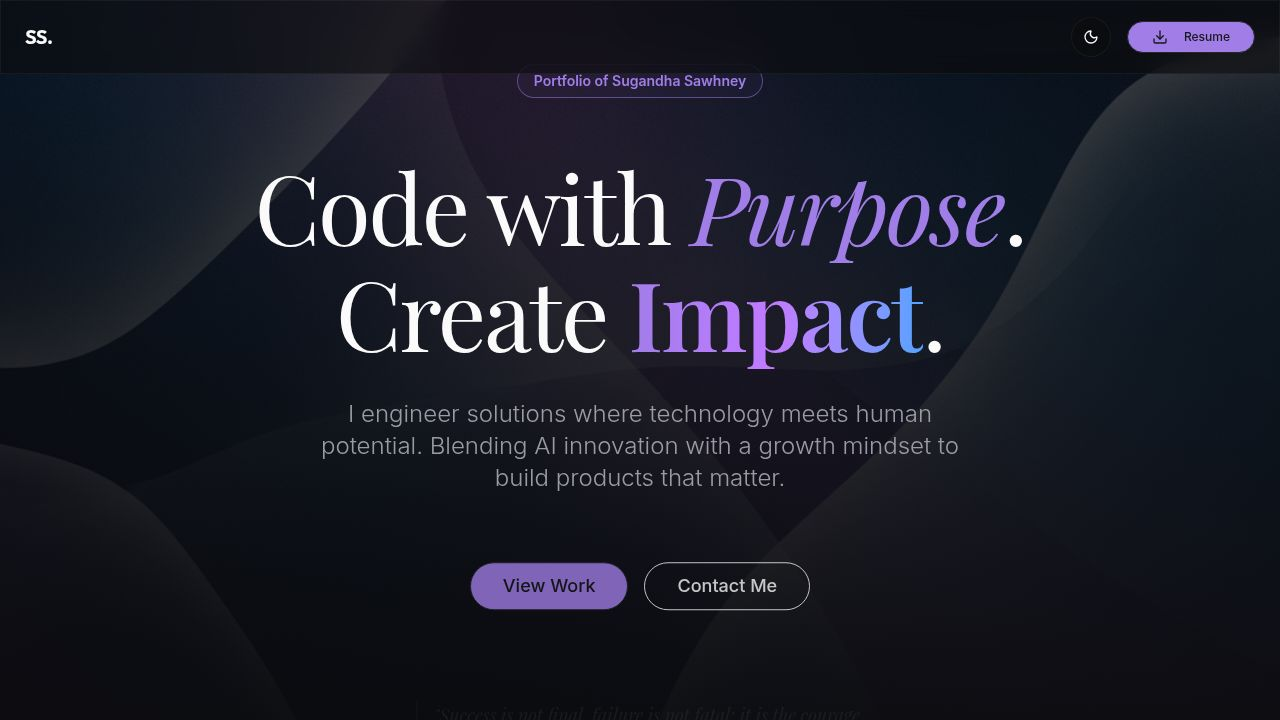
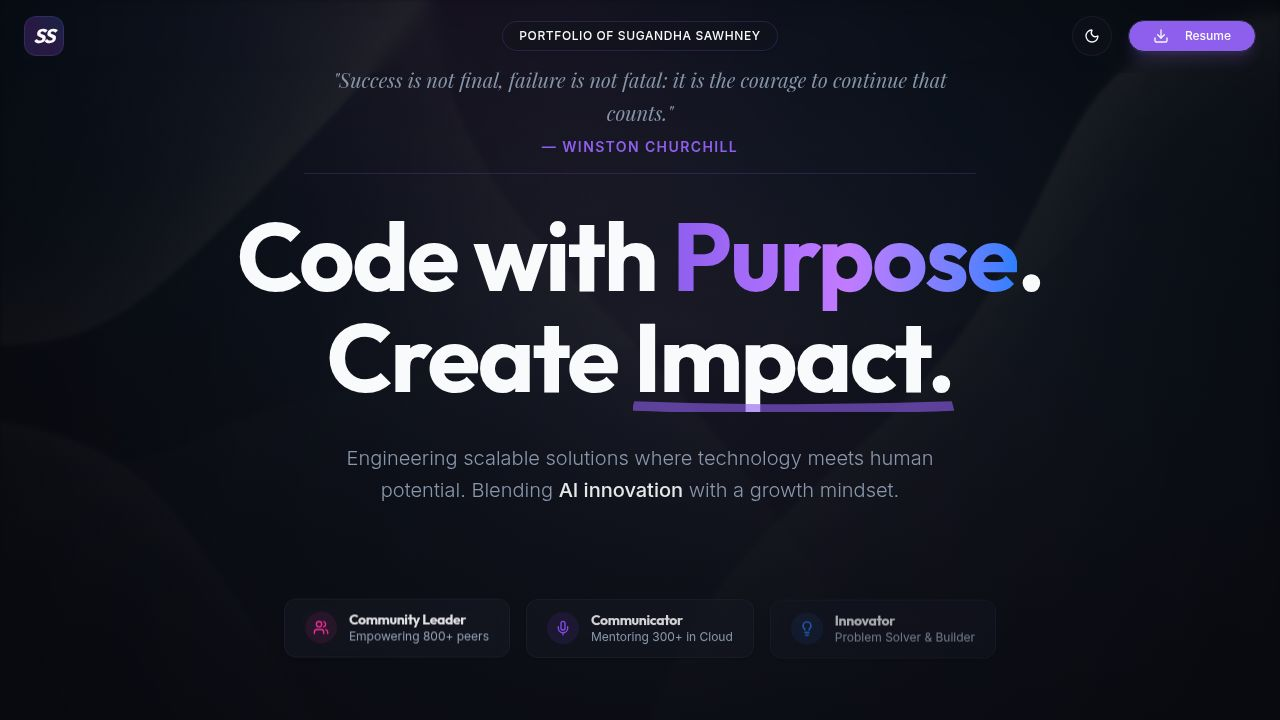
Adjust website layout and content to match user's design requests
Restructure the navigation bar, prominently display a quote, and update the about section content with new metrics and university name.

Replit-Commit-Author: Agent
Replit-Commit-Session-Id: dddb8f0b-c208-4d79-9274-7375ebd0d79f
Replit-Commit-Checkpoint-Type: full_checkpoint
Replit-Commit-Event-Id: a0bf2b86-d5ed-4762-a42b-8d053cfc7b7c
Replit-Commit-Screenshot-Url: https://storage.googleapis.com/screenshot-production-us-central1/0880cebe-419a-4569-83b4-175e6c397eff/dddb8f0b-c208-4d79-9274-7375ebd0d79f/JSiuIjx
Replit-Helium-Checkpoint-Created: true

diff --git a/client/src/pages/home.tsx b/client/src/pages/home.tsx
@@ -60,8 +60,17 @@ export default function Home() {
     <div className="min-h-screen bg-background text-foreground overflow-x-hidden selection:bg-primary/30 selection:text-primary-foreground">
       {/* Navigation */}
       <nav className={`fixed top-0 left-0 right-0 z-50 flex items-center justify-between px-6 py-4 transition-all duration-300 ${isScrolled ? "glass scrolled" : "glass"}`}>
-        <Logo />
-        <div className="flex items-center gap-4">
+        <div className="flex-1 flex justify-start">
+           <Logo />
+        </div>
+        
+        <div className="flex-1 flex justify-center">
+          <Badge variant="outline" className="hidden md:flex px-4 py-1.5 rounded-full text-xs font-medium uppercase tracking-wider border-primary/20 bg-background/50 backdrop-blur-md shadow-sm whitespace-nowrap">
+             Portfolio of Sugandha Sawhney
+          </Badge>
+        </div>
+
+        <div className="flex-1 flex items-center justify-end gap-4">
           <ThemeToggle />
           <Button 
             variant="default" 
@@ -93,10 +102,10 @@ export default function Home() {
             animate={{ opacity: 1, y: 0 }}
             transition={{ duration: 0.6, ease: "easeOut" }}
           >
-            <Badge variant="secondary" className="px-6 py-2 rounded-full text-xs font-medium uppercase tracking-wider border border-primary/20 bg-background/50 backdrop-blur-md shadow-sm">
-              <Sparkles className="w-3 h-3 mr-2 text-primary animate-pulse" />
-              Portfolio of Sugandha Sawhney
-            </Badge>
+             <blockquote className="font-serif italic text-lg md:text-xl text-muted-foreground/90 max-w-2xl mx-auto leading-relaxed border-b border-primary/20 pb-4">
+                "Success is not final, failure is not fatal: it is the courage to continue that counts."
+                <footer className="text-sm font-sans not-italic text-primary mt-2 uppercase tracking-widest font-bold">— Winston Churchill</footer>
+              </blockquote>
           </motion.div>
 
           <motion.h1 
@@ -157,10 +166,6 @@ export default function Home() {
       <Section id="about" className="relative py-24">
         <div className="grid md:grid-cols-12 gap-12 lg:gap-20 items-start">
           <div className="md:col-span-5 lg:col-span-5 space-y-8 sticky top-32">
-            <div className="inline-block p-3 rounded-2xl bg-primary/10 mb-2">
-              <Logo />
-            </div>
-            
             <h2 className="text-3xl md:text-5xl font-heading font-bold leading-tight">
               The Mindset <br />
               <span className="text-transparent bg-clip-text bg-gradient-to-r from-primary to-purple-400">Behind The Code</span>
@@ -168,19 +173,42 @@ export default function Home() {
             
             <div className="space-y-6 text-base md:text-lg text-muted-foreground leading-relaxed">
               <p>
-                I am a 2nd-year B.Tech Information Technology student at <span className="text-foreground font-semibold border-b border-primary/30 hover:border-primary transition-colors cursor-default">IGDTUW</span>.
+                I am a 2nd-year B.Tech Information Technology student at <span className="text-foreground font-semibold border-b border-primary/30 hover:border-primary transition-colors cursor-default">Indira Gandhi Delhi Technical University for Women</span>.
               </p>
               
-              <blockquote className="border-l-4 border-primary pl-6 py-4 my-6 italic text-foreground text-lg font-serif bg-card/30 rounded-r-2xl pr-6 shadow-sm">
-                "Success is not final, failure is not fatal: it is the courage to continue that counts."
-              </blockquote>
+              <p>
+                For me, technology is a tool for empowerment. My journey is driven by a simple belief: <span className="text-foreground font-medium italic">"Growth happens outside the comfort zone."</span> Whether I'm fine-tuning LLMs or leading a community of hundreds, I approach every challenge with curiosity and resilience.
+              </p>
 
               <p>
-                My journey is driven by a simple belief: <span className="text-foreground font-medium">"Growth happens outside the comfort zone."</span> Whether I'm fine-tuning LLMs or leading a community of hundreds, I approach every challenge with curiosity.
+                I don't just build apps; I build solutions that impact lives—like Nutrilia, where I'm combining AI with holistic health to solve real-world problems.
               </p>
             </div>
+
+            <div className="grid grid-cols-2 gap-4 pt-4">
+              <div className="bg-card/40 p-4 rounded-xl border border-border/50">
+                 <h4 className="text-2xl font-bold text-primary mb-1">800+</h4>
+                 <p className="text-xs text-muted-foreground uppercase tracking-wider">Students Mentored</p>
+                 <p className="text-xs text-muted-foreground/50">GirlScript Summer of Code</p>
+              </div>
+              <div className="bg-card/40 p-4 rounded-xl border border-border/50">
+                 <h4 className="text-2xl font-bold text-primary mb-1">9.29</h4>
+                 <p className="text-xs text-muted-foreground uppercase tracking-wider">Current GPA</p>
+                 <p className="text-xs text-muted-foreground/50">B.Tech IT (IGDTUW)</p>
+              </div>
+              <div className="bg-card/40 p-4 rounded-xl border border-border/50">
+                 <h4 className="text-2xl font-bold text-primary mb-1">300+</h4>
+                 <p className="text-xs text-muted-foreground uppercase tracking-wider">Cloud Learners</p>
+                 <p className="text-xs text-muted-foreground/50">Program Facilitator</p>
+              </div>
+              <div className="bg-card/40 p-4 rounded-xl border border-border/50">
+                 <h4 className="text-lg font-bold text-primary mb-1">Always Learning</h4>
+                 <p className="text-xs text-muted-foreground uppercase tracking-wider">Exploring</p>
+                 <p className="text-xs text-muted-foreground/50">Blockchain & RAG</p>
+              </div>
+            </div>
             
-            <div className="flex gap-3 pt-2">
+            <div className="flex gap-3 pt-4">
               {[
                 { icon: Linkedin, link: "https://linkedin.com/in/sugandha-sawhney-574072327" },
                 { icon: Github, link: "https://github.com/SugandhaSawhney" },
@@ -202,84 +230,46 @@ export default function Home() {
           
           <div className="md:col-span-7 lg:col-span-7 space-y-8">
              <div className="bg-card/40 p-8 rounded-3xl border border-border/50 backdrop-blur-md shadow-xl hover:shadow-2xl transition-all duration-500">
-              <h3 className="text-xl font-heading font-bold mb-6 flex items-center gap-3">
-                <div className="p-2 bg-primary/10 rounded-lg">
-                  <Terminal className="h-5 w-5 text-primary" /> 
-                </div>
-                Technical Arsenal
-              </h3>
-              
-              <div className="space-y-4">
-                <SkillBar skill="C++" level={75} delay={0.1} />
-                <SkillBar skill="Python" level={85} delay={0.2} />
-                <SkillBar skill="Generative AI & Prompt Engineering" level={80} delay={0.3} />
-                <SkillBar skill="SQL" level={75} delay={0.4} />
-                <SkillBar skill="React.js & JavaScript" level={72} delay={0.5} />
-              </div>
-              
-              <Separator className="my-8 opacity-50" />
-              
-              <div className="grid sm:grid-cols-2 gap-8">
-                <div className="space-y-4">
-                  <h4 className="font-bold text-foreground flex items-center gap-2 text-sm uppercase tracking-wide">
-                    <Database className="w-4 h-4 text-primary" /> Core Concepts
-                  </h4>
-                  <ul className="text-sm text-muted-foreground space-y-2.5">
-                    <li className="flex items-center gap-2"><span className="w-1.5 h-1.5 rounded-full bg-primary/60" />DSA (In Progress)</li>
-                    <li className="flex items-center gap-2"><span className="w-1.5 h-1.5 rounded-full bg-primary/60" />DBMS</li>
-                    <li className="flex items-center gap-2"><span className="w-1.5 h-1.5 rounded-full bg-primary/60" />OOPs</li>
-                  </ul>
-                </div>
-                <div className="space-y-4">
-                  <h4 className="font-bold text-foreground flex items-center gap-2 text-sm uppercase tracking-wide">
-                    <Brain className="w-4 h-4 text-primary" /> Tools & Tech
-                  </h4>
-                  <div className="flex flex-wrap gap-2">
-                    {["Git", "GitHub", "VS Code", "Streamlit", "Colab", "LangChain", "Figma"].map(tool => (
-                      <Badge key={tool} variant="outline" className="bg-background/50 hover:bg-primary/10 transition-colors cursor-default">{tool}</Badge>
-                    ))}
-                  </div>
-                </div>
-              </div>
-            </div>
-
-            <div className="bg-gradient-to-br from-primary/5 to-transparent p-8 rounded-3xl border border-primary/10 hover:border-primary/30 transition-all duration-500">
-               <h3 className="text-xl font-bold mb-6 flex items-center gap-3">
-                 <div className="p-2 bg-primary/10 rounded-lg">
-                   <GraduationCap className="w-5 h-5 text-primary" />
-                 </div>
-                 Education
-               </h3>
+               <h3 className="text-xl font-heading font-bold mb-8">Experience Timeline</h3>
                
-               <div className="space-y-8 relative before:absolute before:left-[9px] before:top-2 before:bottom-2 before:w-[2px] before:bg-gradient-to-b before:from-primary before:to-transparent">
-                 <div className="relative pl-8 group">
-                    <span className="absolute left-0 top-1.5 w-5 h-5 rounded-full border-4 border-background bg-primary z-10 group-hover:scale-125 transition-transform" />
-                    <div className="flex flex-col sm:flex-row sm:justify-between sm:items-start mb-1">
-                      <span className="font-bold text-lg group-hover:text-primary transition-colors">IGDTUW, Delhi</span>
-                      <Badge variant="secondary" className="font-mono text-xs w-fit mt-1 sm:mt-0">GPA: 9.29</Badge>
+               <div className="space-y-12 relative border-l border-border/30 ml-3">
+                  {[
+                    {
+                      role: "Gen AI & Prompt Engineering Intern",
+                      org: "IGDTUW",
+                      date: "JUN 2025 - JUL 2025",
+                      desc: "Worked on NLP, LLMs (GPT-3.5, Gemini), and RAG techniques."
+                    },
+                    {
+                      role: "Program Facilitator",
+                      org: "GOOGLE CLOUD ARCADE",
+                      date: "AUG 2025 - OCT 2025",
+                      desc: "Mentored 300+ participants in Google Cloud technologies."
+                    },
+                    {
+                      role: "Campus Ambassador",
+                      org: "GIRLSCRIPT SUMMER OF CODE",
+                      date: "JUL 2025 - OCT 2025",
+                      desc: "Led a community of 800+ students, organizing peer-learning sessions."
+                    }
+                  ].map((exp, i) => (
+                    <div key={i} className="relative pl-8 group">
+                      <span className="absolute -left-[5px] top-2 h-2.5 w-2.5 rounded-full border border-border bg-background group-hover:bg-primary group-hover:border-primary transition-colors duration-300" />
+                      <h4 className="text-lg font-bold font-heading text-foreground group-hover:text-primary transition-colors">{exp.role}</h4>
+                      <p className="text-xs font-mono text-muted-foreground uppercase tracking-wider mb-2">{exp.org} | {exp.date}</p>
+                      <p className="text-sm text-muted-foreground/80 leading-relaxed">{exp.desc}</p>
                     </div>
-                    <p className="text-sm text-muted-foreground">B.Tech Information Technology (2024-2028)</p>
-                 </div>
-                 
-                 <div className="relative pl-8 group">
-                    <span className="absolute left-0 top-1.5 w-5 h-5 rounded-full border-4 border-background bg-muted-foreground z-10 group-hover:bg-primary transition-colors" />
-                    <div className="flex flex-col sm:flex-row sm:justify-between sm:items-start mb-1">
-                      <span className="font-medium group-hover:text-primary transition-colors">Khemo Devi Public School</span>
-                      <Badge variant="secondary" className="font-mono text-xs w-fit mt-1 sm:mt-0">86.4%</Badge>
-                    </div>
-                    <p className="text-sm text-muted-foreground">Class XII (CBSE) | 2022-2024</p>
-                 </div>
-
-                 <div className="relative pl-8 group">
-                    <span className="absolute left-0 top-1.5 w-5 h-5 rounded-full border-4 border-background bg-muted-foreground z-10 group-hover:bg-primary transition-colors" />
-                    <div className="flex flex-col sm:flex-row sm:justify-between sm:items-start mb-1">
-                      <span className="font-medium group-hover:text-primary transition-colors">Sacred Heart Convent</span>
-                      <Badge variant="secondary" className="font-mono text-xs w-fit mt-1 sm:mt-0">98%</Badge>
-                    </div>
-                    <p className="text-sm text-muted-foreground">Class X (CBSE)</p>
-                 </div>
+                  ))}
+                  
+                  <div className="relative pl-8 group pt-4">
+                      <span className="absolute -left-[5px] top-6 h-2.5 w-2.5 rounded-full border border-border bg-background animate-pulse border-primary bg-primary" />
+                      <div className="bg-primary/5 border border-primary/20 rounded-xl p-4">
+                        <h4 className="text-base font-bold font-heading text-primary">Open to Opportunities</h4>
+                        <p className="text-xs text-muted-foreground/80 leading-relaxed mt-1">Currently seeking internships and collaborative projects. Ready to bring value to your team.</p>
+                      </div>
+                  </div>
                </div>
-            </div>
+             </div>
           </div>
         </div>
       </Section>
@@ -490,35 +480,61 @@ export default function Home() {
         </div>
       </Section>
 
-      {/* Achievement Section */}
-      <Section className="bg-secondary/20 py-32 relative overflow-hidden">
-         <div className="absolute top-0 right-0 w-1/2 h-full bg-gradient-to-l from-primary/5 to-transparent pointer-events-none" />
-         
-         <div className="max-w-4xl mx-auto text-center relative z-10">
-            <h3 className="text-4xl font-heading font-bold mb-12 flex justify-center items-center gap-3">
-              <Trophy className="h-10 w-10 text-yellow-500" /> Key Achievements
-            </h3>
+      {/* Milestones Section */}
+      <Section className="bg-secondary/20 py-24">
+         <div className="max-w-6xl mx-auto">
+            <div className="text-center mb-16">
+               <p className="text-sm font-medium text-primary tracking-widest uppercase mb-3">Milestones</p>
+               <h3 className="text-3xl md:text-5xl font-heading font-bold">Achievements & Recognition</h3>
+            </div>
             
-            <Card className="glass-card border-primary/20 relative overflow-hidden group text-left max-w-3xl mx-auto transform hover:scale-[1.02] transition-transform duration-500 rounded-[2.5rem]">
-              <div className="absolute top-0 right-0 p-8 opacity-10 group-hover:opacity-20 transition-opacity">
-                <Trophy className="w-48 h-48 rotate-12 text-yellow-500" />
-              </div>
-              <div className="absolute -left-10 -bottom-10 w-40 h-40 bg-yellow-500/20 blur-[80px] rounded-full" />
-              
-              <CardHeader className="p-10 pb-4">
-                <div className="flex justify-between items-start mb-4">
-                  <Badge className="bg-yellow-500/20 text-yellow-600 dark:text-yellow-400 border-yellow-500/30 hover:bg-yellow-500/30 px-4 py-1.5 text-sm">National Winner</Badge>
-                  <span className="text-sm font-mono text-muted-foreground">2025</span>
-                </div>
-                <CardTitle className="text-3xl md:text-4xl font-heading font-bold">Smart India Hackathon 2025</CardTitle>
-                <CardDescription className="text-lg mt-2">National Level Hackathon | Ministry of Education</CardDescription>
-              </CardHeader>
-              <CardContent className="p-10 pt-4">
-                <p className="text-lg text-muted-foreground leading-relaxed">
-                  Shortlisted among top teams from <span className="text-foreground font-bold">250+ entries</span> in internal SIH and nominated for the National Online Screening Round. Recognized for developing an innovative solution in smart tourism and cultural heritage preservation using AI and Blockchain technology.
-                </p>
-              </CardContent>
-            </Card>
+            <div className="grid md:grid-cols-3 gap-6">
+                <Card className="glass-card border-white/5 bg-card/30 hover:bg-card/50 transition-colors duration-300">
+                   <CardContent className="p-8 space-y-4">
+                      <div className="p-3 bg-yellow-500/10 rounded-full w-fit">
+                         <Trophy className="w-6 h-6 text-yellow-500" />
+                      </div>
+                      <div>
+                         <h4 className="text-lg font-bold mb-1">Smart India Hackathon</h4>
+                         <p className="text-2xl font-bold mb-1">2025</p>
+                         <p className="text-xs text-muted-foreground uppercase tracking-wider">2025</p>
+                      </div>
+                      <p className="text-sm text-muted-foreground leading-relaxed">
+                         Shortlisted among top teams from 250+ entries in internal SIH and nominated for the National Online Screening Round.
+                      </p>
+                   </CardContent>
+                </Card>
+
+                <Card className="glass-card border-white/5 bg-card/30 hover:bg-card/50 transition-colors duration-300">
+                   <CardContent className="p-8 space-y-4">
+                      <div className="p-3 bg-purple-500/10 rounded-full w-fit">
+                         <Sparkles className="w-6 h-6 text-purple-500" />
+                      </div>
+                      <div>
+                         <h4 className="text-lg font-bold mb-1">GPA 9.29</h4>
+                         <p className="text-2xl font-bold mb-1">2024-Present</p>
+                      </div>
+                      <p className="text-sm text-muted-foreground leading-relaxed">
+                         Consistent academic excellence in B.Tech Information Technology at IGDTUW.
+                      </p>
+                   </CardContent>
+                </Card>
+
+                <Card className="glass-card border-white/5 bg-card/30 hover:bg-card/50 transition-colors duration-300">
+                   <CardContent className="p-8 space-y-4">
+                      <div className="p-3 bg-pink-500/10 rounded-full w-fit">
+                         <Award className="w-6 h-6 text-pink-500" />
+                      </div>
+                      <div>
+                         <h4 className="text-lg font-bold mb-1">Community Leader</h4>
+                         <p className="text-2xl font-bold mb-1">2025</p>
+                      </div>
+                      <p className="text-sm text-muted-foreground leading-relaxed">
+                         Successfully led a community of 800+ students during GirlScript Summer of Code.
+                      </p>
+                   </CardContent>
+                </Card>
+            </div>
          </div>
       </Section>
 
